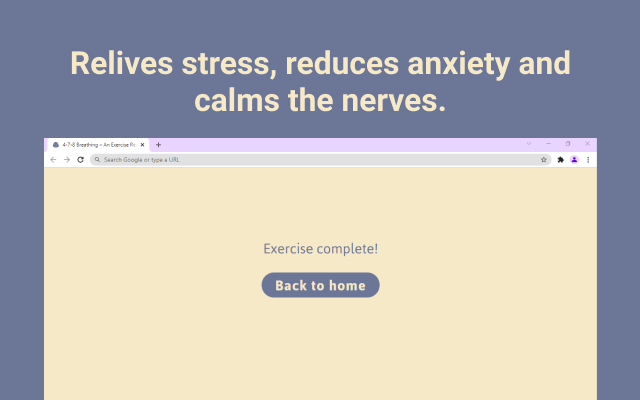
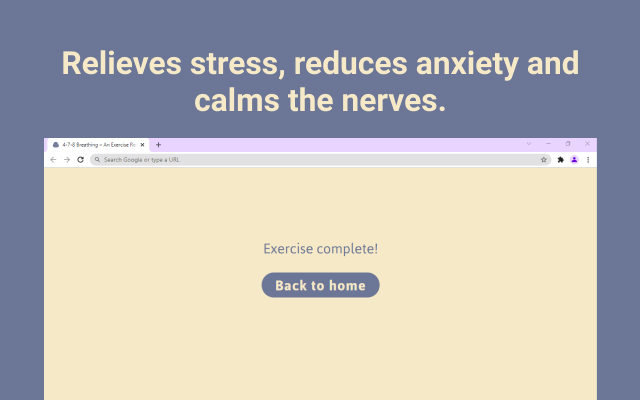
Fix typo

Changed region(s): [[0.0938, 0.12, 0.9062, 0.21]]

diff --git a/src/breathing478.html b/src/breathing478.html
@@ -4,7 +4,7 @@
         <meta charset="utf-8">
         <title>4-7-8 Breathing – An Exercise Ready in Every New Tab</title>
         <meta name="viewport" content="initial-scale=1, maximum-scale=1" />
-        <meta name="description" content="A 4-7-8 breathing exercise ready in every new tab. Relives stress, reduces anxiety and calms the nerves." />
+        <meta name="description" content="A 4-7-8 breathing exercise ready in every new tab. Relieves stress, reduces anxiety and calms the nerves." />
         <script src="./bundle.js" type="text/javascript"></script>
         <link rel="stylesheet" href="./index.css">
     </head>
@@ -14,7 +14,7 @@
                 <img src="./icons/plectrum.png" alt="home" width="100" />
                 <h1>4-7-8 breathing</h1>
                 <p>Inhale for <b>4</b> seconds, hold for <b>7</b> seconds and exhale for <b>8</b> seconds. <br />
-                    Relives stress, reduces anxiety and calms the nerves.</p>
+                    Relieves stress, reduces anxiety and calms the nerves.</p>
                 <select id="roundsSelection">
                     <option value="1">1</option>
                     <option value="2">2</option>

diff --git a/README.md b/README.md
@@ -1,5 +1,5 @@
 # 4-7-8 breathing
-A 4-7-8 breathing exercise ready in every new tab. Inhale for **4** seconds, hold for **7** seconds and exhale for **8** seconds. Relives stress, reduces anxiety and calms the nerves.
+A 4-7-8 breathing exercise ready in every new tab. Inhale for **4** seconds, hold for **7** seconds and exhale for **8** seconds. Relieves stress, reduces anxiety and calms the nerves.
 
 ## Credits
 Developed by [Clyde D'Souza](https://clydedsouza.net/)
